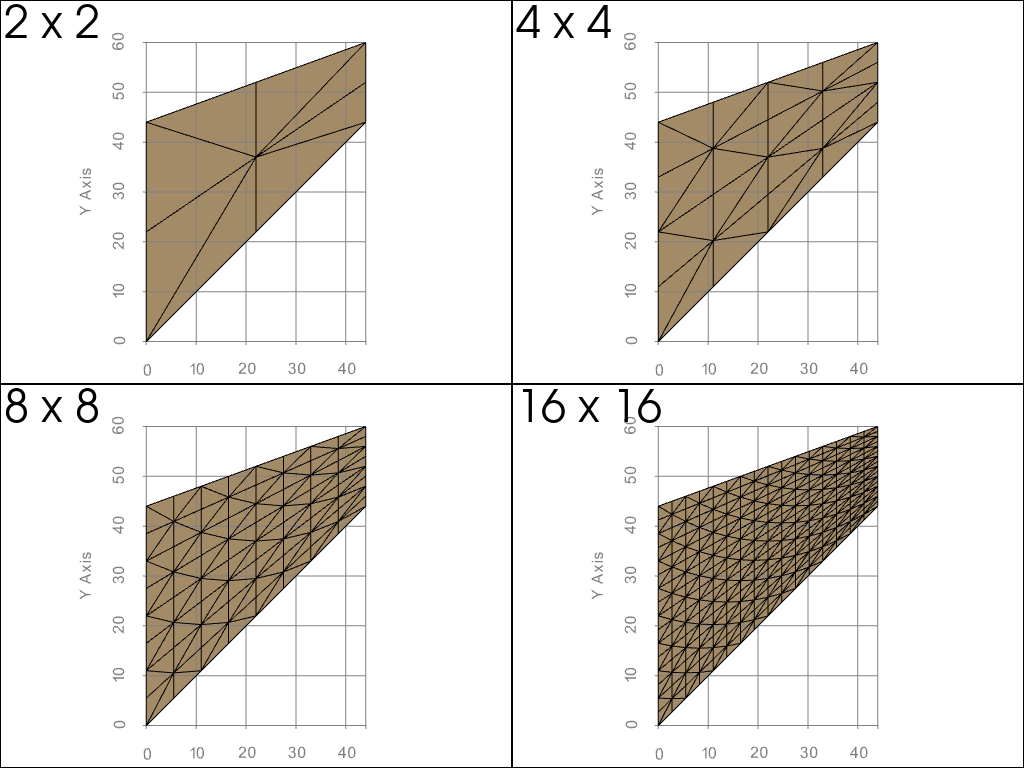
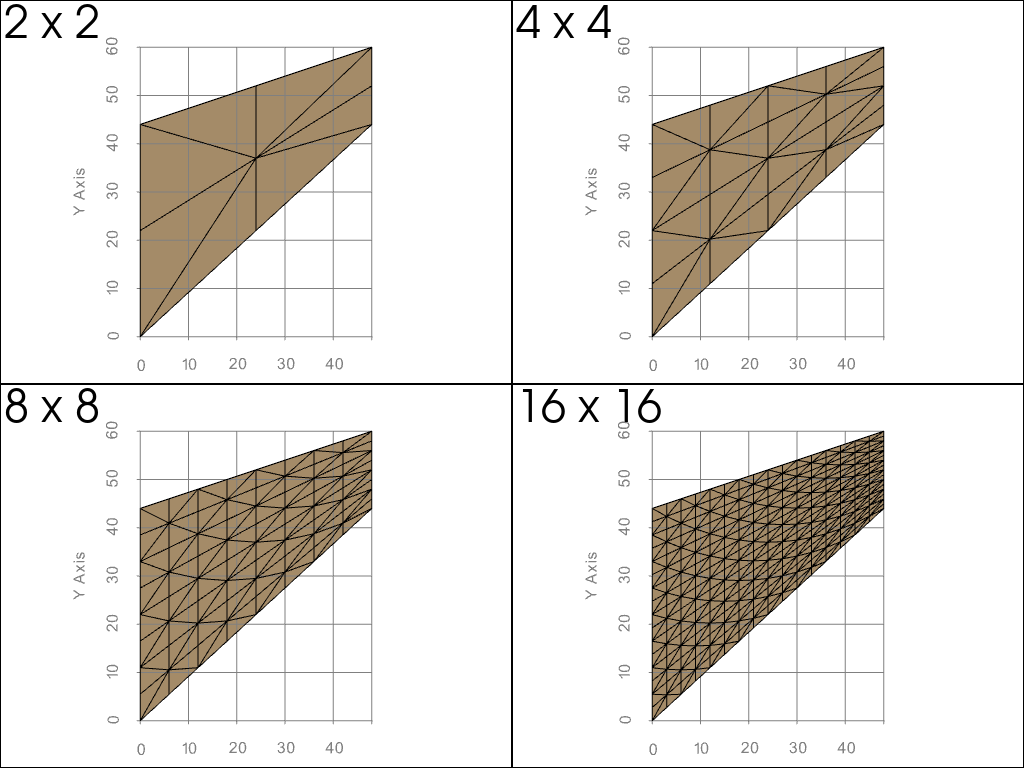
Add displacement.png

diff --git a/getfem-cooks-membrane.py b/getfem-cooks-membrane.py
@@ -19,73 +19,135 @@ F = 1.00/16.0  # Force density at the right boundary
 ###############################################################################
 # TODO: $B;03Q7A%a%C%7%e$NJ}8~$rB7$($i$l$J$$$+3NG'$9$k!#(B
 
-xn = 4
-yn = 4
-mesh = gf.Mesh("regular simplices", range(xn+1), range(yn+1))
-pts = mesh.pts()
-x = mesh.pts()[0, :]
-y = mesh.pts()[1, :]
-pts[0, :] = x * 44.0 / xn
-pts[1, :] = 44.0 / xn * x + (44.0 - (44.0 - 16.0) / xn * x) / yn * y
-mesh.set_pts(pts)
+xns = [2, 4, 8, 16]
+yns = [2, 4, 8, 16]
+meshs = []
+for xn, yn in zip(xns, yns):
+    mesh = gf.Mesh("regular simplices", range(xn+1), range(yn+1))
+    pts = mesh.pts()
+    x = mesh.pts()[0, :]
+    y = mesh.pts()[1, :]
+    pts[0, :] = x * 48.0 / xn
+    pts[1, :] = 44.0 / xn * x + (44.0 - (44.0 - 16.0) / xn * x) / yn * y
+    mesh.set_pts(pts)
+    meshs.append(mesh)
 
 ###############################################################################
 
-fb1 = mesh.outer_faces_with_direction([1.0, 0.0], 0.01)
-fb2 = mesh.outer_faces_with_direction([-1.0, 0.0], 0.01)
+for mesh in meshs:
+    fb1 = mesh.outer_faces_with_direction([1.0, 0.0], 0.01)
+    fb2 = mesh.outer_faces_with_direction([-1.0, 0.0], 0.01)
 
-RIGHT_BOUND = 1
-LEFT_BOUND = 2
+    RIGHT_BOUND = 1
+    LEFT_BOUND = 2
 
-mesh.set_region(RIGHT_BOUND, fb1)
-mesh.set_region(LEFT_BOUND, fb2)
+    mesh.set_region(RIGHT_BOUND, fb1)
+    mesh.set_region(LEFT_BOUND, fb2)
 
 ###############################################################################
 
-mesh.export_to_vtk("mesh.vtk", "ascii")
+meshs[0].export_to_vtk("mesh0.vtk", "ascii")
+meshs[1].export_to_vtk("mesh1.vtk", "ascii")
+meshs[2].export_to_vtk("mesh2.vtk", "ascii")
+meshs[3].export_to_vtk("mesh3.vtk", "ascii")
 
-grid = pv.read("mesh.vtk")
-points = grid.points
-plotter = pv.Plotter(off_screen=True)
-plotter.add_mesh(grid, show_edges=True)
-plotter.add_point_labels(
-    points, points.tolist(), point_size=10, font_size=10, always_visible=True
-)
+grid0 = pv.read("mesh0.vtk")
+grid1 = pv.read("mesh1.vtk")
+grid2 = pv.read("mesh2.vtk")
+grid3 = pv.read("mesh3.vtk")
+points0 = grid0.points
+points1 = grid1.points
+points2 = grid2.points
+points3 = grid3.points
+
+plotter = pv.Plotter(shape=(2, 2), off_screen=True)
+
+plotter.subplot(0, 0)
+plotter.add_text("2 x 2")
+plotter.add_mesh(grid0, show_edges=True)
+plotter.show_grid(grid="back", location="back", color="gray", all_edges=True)
+
+plotter.subplot(0, 1)
+plotter.add_text("4 x 4")
+plotter.add_mesh(grid1, show_edges=True)
+plotter.show_grid(grid="back", location="back", color="gray", all_edges=True)
+
+plotter.subplot(1, 0)
+plotter.add_text("8 x 8")
+plotter.add_mesh(grid2, show_edges=True)
+plotter.show_grid(grid="back", location="back", color="gray", all_edges=True)
+
+plotter.subplot(1, 1)
+plotter.add_text("16 x 16")
+plotter.add_mesh(grid3, show_edges=True)
+plotter.show_grid(grid="back", location="back", color="gray", all_edges=True)
+
 plotter.show(cpos="xy", screenshot="mesh.png")
 
 ###############################################################################
 
-mfu = gf.MeshFem(mesh, 2)
-mfu.set_classical_fem(elements_degree)
-mim = gf.MeshIm(mesh, elements_degree * 2)
+mfus = []
+mims = []
+for mesh in meshs:
+    mfu = gf.MeshFem(mesh, 2)
+    mfu.set_classical_fem(elements_degree)
+    mfus.append(mfu)
+    mim = gf.MeshIm(mesh, elements_degree * 2)
+    mims.append(mim)
 
 ###############################################################################
 
-md = gf.Model("real")
-md.add_fem_variable("u", mfu)
-md.add_initialized_data("E", [E])
-md.add_initialized_data("nu", [nu])
-md.add_initialized_data("F", [0.0, F])
-md.add_isotropic_linearized_elasticity_brick_pstress(mim, "u", "E", "nu")
-md.add_source_term_brick(mim, "u", "F", RIGHT_BOUND)
-md.add_Dirichlet_condition_with_simplification("u", LEFT_BOUND)
+mds = []
+for mfu, mim in zip(mfus, mims):
+    md = gf.Model("real")
+    md.add_fem_variable("u", mfu)
+    md.add_initialized_data("E", [E])
+    md.add_initialized_data("nu", [nu])
+    md.add_initialized_data("F", [0.0, F])
+    md.add_isotropic_linearized_elasticity_brick_pstress(mim, "u", "E", "nu")
+    md.add_source_term_brick(mim, "u", "F", RIGHT_BOUND)
+    md.add_Dirichlet_condition_with_simplification("u", LEFT_BOUND)
+    mds.append(md)
 
 ###############################################################################
 
-md.solve()
+for md in mds:
+    md.solve()
 
 ###############################################################################
 
-U = md.variable("u")
-mfu.export_to_vtk("displacement.vtk", "ascii", mfu, U, "Displacement")
+U0 = mds[0].variable("u")
+mfu.export_to_vtk("displacement0.vtk", "ascii", mfus[0], U0, "Displacement")
+U1 = mds[1].variable("u")
+mfu.export_to_vtk("displacement1.vtk", "ascii", mfus[1], U1, "Displacement")
+U2 = mds[2].variable("u")
+mfu.export_to_vtk("displacement2.vtk", "ascii", mfus[2], U2, "Displacement")
+U3 = mds[3].variable("u")
+mfu.export_to_vtk("displacement3.vtk", "ascii", mfus[3], U3, "Displacement")
 
 ###############################################################################
 
-result = pv.read("displacement.vtk")
-warped = result.warp_by_vector()
+result0 = pv.read("displacement0.vtk")
+warped0 = result0.warp_by_vector()
+result1 = pv.read("displacement1.vtk")
+warped1 = result1.warp_by_vector()
+result2 = pv.read("displacement2.vtk")
+warped2 = result2.warp_by_vector()
+result3 = pv.read("displacement3.vtk")
+warped3 = result3.warp_by_vector()
 
-plotter = pv.Plotter(off_screen=True)
-plotter.add_mesh(warped, scalars="Displacement", cmap='turbo')
-plotter.add_text("Max:" + str(np.round(np.max(U), 2)))
-plotter.show(cpos="xy", screenshot="displacement.png")
+plotter = pv.Plotter(shape=(2, 2), off_screen=True)
 
+plotter.subplot(0, 0)
+plotter.add_mesh(warped0, scalars="Displacement", cmap='turbo')
+plotter.add_text("Max:" + str(np.round(np.max(U0), 2)))
+plotter.subplot(0, 1)
+plotter.add_mesh(warped1, scalars="Displacement", cmap='turbo')
+plotter.add_text("Max:" + str(np.round(np.max(U1), 2)))
+plotter.subplot(1, 0)
+plotter.add_mesh(warped2, scalars="Displacement", cmap='turbo')
+plotter.add_text("Max:" + str(np.round(np.max(U2), 2)))
+plotter.subplot(1, 1)
+plotter.add_mesh(warped3, scalars="Displacement", cmap='turbo')
+plotter.add_text("Max:" + str(np.round(np.max(U3), 2)))
+plotter.show(cpos="xy", screenshot="displacement.png") 
